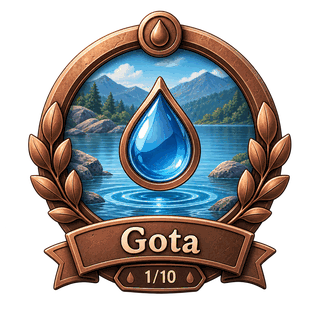
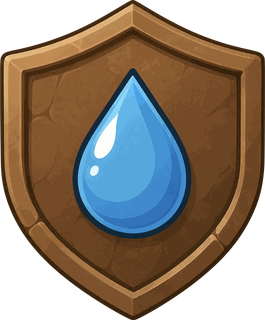
feat: las diez insignias de nivel
Escudos sin texto dentro, así que el rótulo lo sigue poniendo la app y valen para
los cinco idiomas: diez ficheros en vez de cincuenta.

El pipeline aprende a recortar el fondo. El generador devuelve unas con alfa y
otras sobre blanco opaco, y sobre el tema oscuro estas últimas salían como un
recuadro blanco alrededor del escudo. Es un relleno por inundación DESDE EL
BORDE y no un "haz transparente todo lo blanco": dentro del dibujo hay blancos
legítimos --las nubes del acuífero, la espuma de la cascada-- y un filtro por
color les haría agujeros. Inundando desde fuera, lo que el escudo encierra no se
toca.

El recorte va antes de reducir: al escalar con LANCZOS el canal alfa se suaviza
con el resto y el filo queda limpio. Hecho después, sobre 320 px, deja un halo
de un píxel.

diff --git a/web/src/lib/levelBadges.ts b/web/src/lib/levelBadges.ts
@@ -8,7 +8,7 @@
  *
  * Al añadir una nueva (ver `scripts/prepara-insignias.py`), añade aquí su clave.
  */
-export const LEVEL_BADGES = new Set(['drop'])
+export const LEVEL_BADGES = new Set(['drop','spring', 'brook', 'torrent', 'stream', 'river', 'waterfall', 'reservoir', 'lake', 'aquifer'])
 
 /**
  * Los ficheros viven en `public/`, así que **no llevan hash en el nombre** y el

diff --git a/scripts/prepara-insignias.py b/scripts/prepara-insignias.py
@@ -51,8 +51,68 @@ def clave_de(ruta: Path) -> str | None:
     return ALIAS.get(tallo)
 
 
+def recorta_fondo(img: Image.Image) -> Image.Image:
+    """Vuelve transparente el fondo blanco, si lo tiene.
+
+    El generador a veces devuelve la insignia sobre un blanco opaco y a veces con
+    alfa. Sobre el tema oscuro, la opaca sale como un **recuadro blanco** alrededor
+    del escudo, que es de lo primero que se ve.
+
+    Es un relleno por inundación **desde el borde**, no un «haz transparente todo lo
+    blanco»: dentro del dibujo hay blancos legítimos —las nubes del acuífero, la
+    espuma de la cascada, los brillos del agua— y un filtro por color les haría
+    agujeros. Inundando desde fuera, lo cerrado por el escudo no se toca.
+    """
+    if img.getchannel("A").getextrema()[0] < 250:
+        return img  # ya trae transparencia: no hay nada que recortar
+
+    ancho, alto = img.size
+    pix = img.load()
+
+    def es_fondo(p: tuple[int, int, int, int]) -> bool:
+        r, g, b, _ = p
+        # Casi blanco y casi gris: el fondo del generador es 251-253 en los tres canales.
+        return min(r, g, b) >= 232 and max(r, g, b) - min(r, g, b) <= 14
+
+    visto = bytearray(ancho * alto)
+    pila = []
+    for x in range(ancho):
+        for y in (0, alto - 1):
+            pila.append((x, y))
+    for y in range(alto):
+        for x in (0, ancho - 1):
+            pila.append((x, y))
+
+    while pila:
+        x, y = pila.pop()
+        if x < 0 or y < 0 or x >= ancho or y >= alto:
+            continue
+        i = y * ancho + x
+        if visto[i]:
+            continue
+        if not es_fondo(pix[x, y]):
+            continue
+        visto[i] = 1
+        pila += [(x + 1, y), (x - 1, y), (x, y + 1), (x, y - 1)]
+
+    borrados = sum(visto)
+    if borrados == 0:
+        return img
+    for y in range(alto):
+        fila = y * ancho
+        for x in range(ancho):
+            if visto[fila + x]:
+                r, g, b, _ = pix[x, y]
+                pix[x, y] = (r, g, b, 0)
+    return img
+
+
 def prepara(origen: Path, clave: str) -> None:
     img = Image.open(origen).convert("RGBA")
+    # El recorte va ANTES de reducir: al escalar con LANCZOS, el canal alfa se
+    # suaviza con el resto y el borde del escudo queda limpio. Recortando después,
+    # sobre 320 px, se queda un halo blanco de un píxel.
+    img = recorta_fondo(img)
     img.thumbnail((LADO, LADO), Image.LANCZOS)
 
     # Cuantizar a 256 colores baja el peso a menos de la mitad y en un dibujo con
